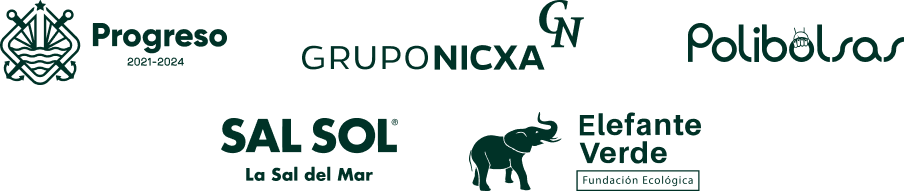
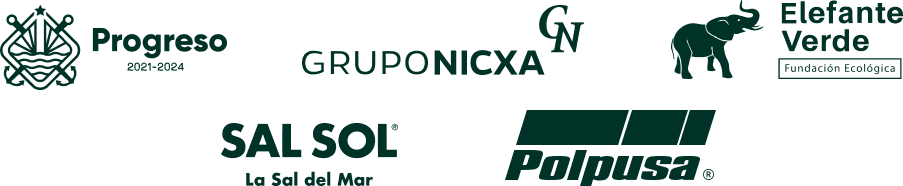
se cambian imagenes de patrocinadores y vigencia de cupones

diff --git a/resources/views/beachontour.blade.php b/resources/views/beachontour.blade.php
@@ -125,7 +125,7 @@
         <div class="container">
             <div class="text-center pt-5 pb-5">
                 <h5 class="font-flame">Restricciones</h5>
-                <p>Los cupones son válidos hasta agostar existencia. No acumulable con otras promociones o descuentos. No
+                <p>Los cupones son válidos hasta el 12 de septiembre del 2023. No acumulable con otras promociones o descuentos. No
                     canjeable por dinero en efectivo. No transferible. Sujeto a disponibilidad en el restaurante
                     participante. No válido en servicios de entrega a domicilio. Aplican términos y condiciones adicionales.
                     Burger King® de Grupo Nicxa®, empresas aliadas y dependencias gubernamentales que participan en la

diff --git a/resources/views/beachontour-landing.blade.php b/resources/views/beachontour-landing.blade.php
@@ -205,7 +205,7 @@
         <div class="container">
             <div class="text-center pt-5 pb-5">
                 <h5>Restricciones</h5>
-                <p>Los cupones son válidos hasta agostar existencia. No acumulable con otras promociones o descuentos. No
+                <p>Los cupones son válidos hasta el 12 de septiembre del 2023. No acumulable con otras promociones o descuentos. No
                     canjeable por dinero en efectivo. No transferible. Sujeto a disponibilidad en el restaurante
                     participante. No válido en servicios de entrega a domicilio. Aplican términos y condiciones adicionales.
                     Burger King® de Grupo Nicxa®, empresas aliadas y dependencias gubernamentales que participan en la
